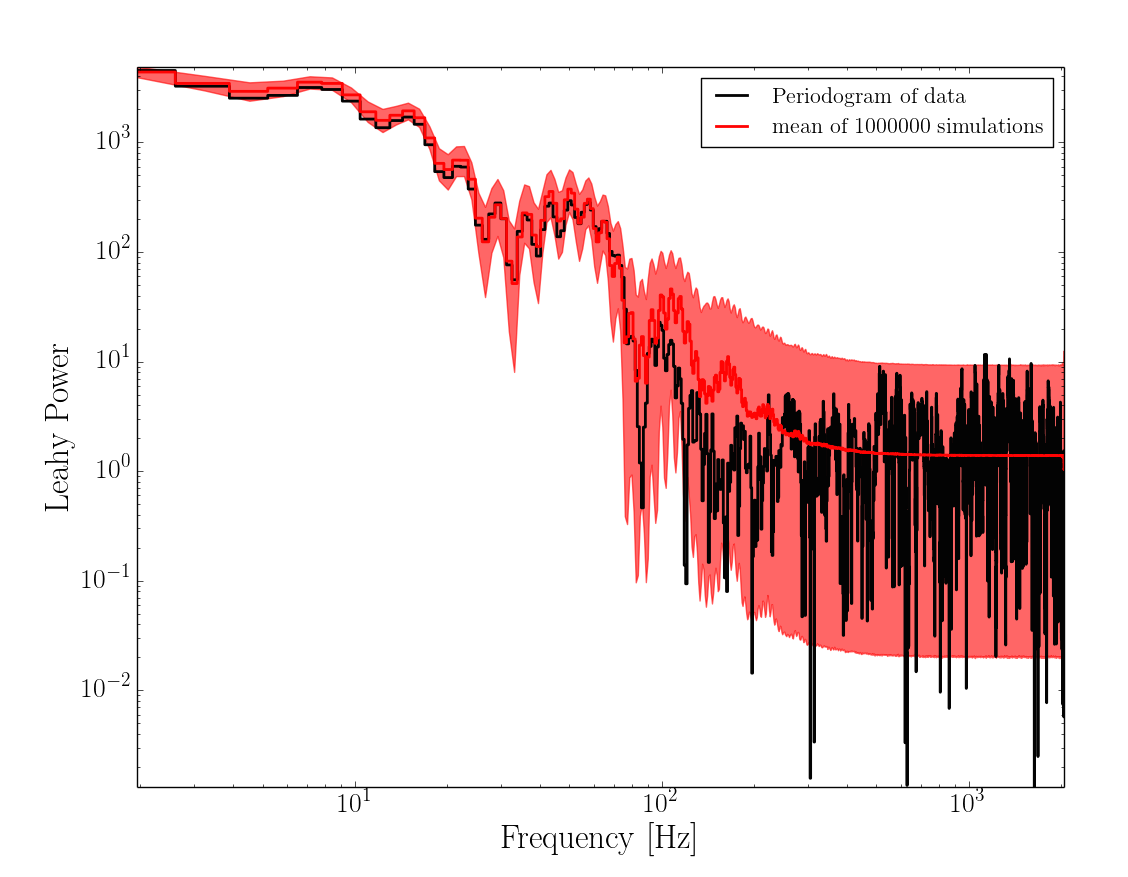
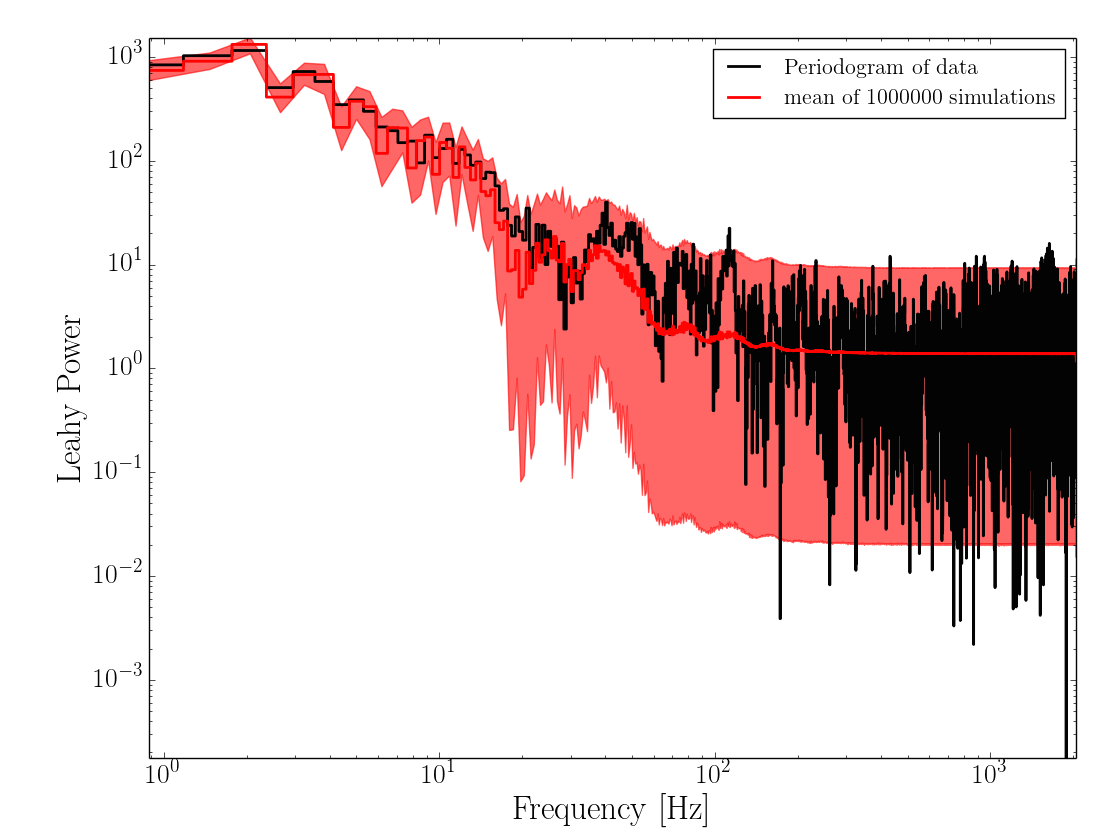
New version of plot with periodograms out of lightcurve fits

Changed region(s): [[0.0305, 0.031, 0.9749, 0.9905]]

diff --git a/sgr_burst_paper.tex b/sgr_burst_paper.tex
@@ -70,12 +70,12 @@ Following \citet{zhang1995} and \citet{jahoda2006}, we correct the periodograms 
 \label{sec:analysis}
 
 Magnetar bursts, by their very nature, have a well-defined start and end. From this immediately follows that they are non-stationary processes and, as such, require special care when performing Fourier analysis - a decomposition into stationary sine functions - on their light curves. Note that stationarity does not imply a constant light curve: it merely implies that the variance in the light curve over any given time interval must be the same as over any other interval. 
-Here, we use the Bayesian periodogram methods described in \citet{huppenkothen13} to deal with the effects of non-stationarity at low frequencies. In short, we compute the periodogram of a light curve with a high time resolution, here $dt = 0.5/2048 = 2.44 \times 10^{-4} \, \mathrm{s}$, which allows us to search up to a Nyquist frequency of $\nu_{\mathrm{Nyquist}} = 2048 \, \mathrm{Hz}$. For light curves that obey stationarity over the time scales of interest, standard Fourier methodology applies, and the statistical distributions of the resulting power spectra are well known. The bursty nature of our light curves introduces high variance at long time scales, correspondingly the periodogram shows high power at low frequencies. We model this power with an empirical function; experience has shown that simple or broken power laws can model a large range of burst phenomena. Consequently, we perform two tasks: (1) a model selection task, to ascertain whether the periodogram may be represented by a simple power law, or requires a more complex model; (2) a QPO search task, where we compare the maximum powers of a large number of simulations to the maximum power after dividing out the best-fit broadband model in the observed periodogram. For the model selection task, we fit the periodogram with both a simple and a broken power law and compute the likelihood ratio. We then sample from the posterior distribution of the simpler model via Markov Chain Monte Carlo, and simulate periodograms from draws of that posterior distribution. These periodograms are again fit with both models, such that we can build a distribution of likelihood ratios for realisations of the simpler model. This allows us to compute a posterior p-value, such that we can accept or reject the simple model. Here, we use a fairly conservative strategy and set the rejection threshold at $p = 0.05$, such that we prefer to over-fit the broadband noise, rather than mis-attribute noise components as a QPO.
+Here, we use the Bayesian periodogram methods described in \citet{huppenkothen2013} to deal with the effects of non-stationarity at low frequencies. In short, we compute the periodogram of a light curve with a high time resolution, here $dt = 0.5/2048 = 2.44 \times 10^{-4} \, \mathrm{s}$, which allows us to search up to a Nyquist frequency of $\nu_{\mathrm{Nyquist}} = 2048 \, \mathrm{Hz}$. For light curves that obey stationarity over the time scales of interest, standard Fourier methodology applies, and the statistical distributions of the resulting power spectra are well known. The bursty nature of our light curves introduces high variance at long time scales, correspondingly the periodogram shows high power at low frequencies. We model this power with an empirical function; experience has shown that simple or broken power laws can model a large range of burst phenomena. Consequently, we perform two tasks: (1) a model selection task, to ascertain whether the periodogram may be represented by a simple power law, or requires a more complex model; (2) a QPO search task, where we compare the maximum powers of a large number of simulations to the maximum power after dividing out the best-fit broadband model in the observed periodogram. For the model selection task, we fit the periodogram with both a simple and a broken power law and compute the likelihood ratio. We then sample from the posterior distribution of the simpler model via Markov Chain Monte Carlo, and simulate periodograms from draws of that posterior distribution. These periodograms are again fit with both models, such that we can build a distribution of likelihood ratios for realisations of the simpler model. This allows us to compute a posterior p-value, such that we can accept or reject the simple model. Here, we use a fairly conservative strategy and set the rejection threshold at $p = 0.05$, such that we prefer to over-fit the broadband noise, rather than mis-attribute noise components as a QPO.
 In the second step, we draw from the posterior distribution of the model chosen in the model selection step, again via MCMC, and create a large number of simulated periodograms from these draws. We fit each periodogram with the preferred model, and find the highest data/model outlier. We can then compare the distribution of data/model outliers as derived from the simulations of broadband noise only with the highest data/model outlier in the observed periodogram. If the observed value is very unlikely given p-value derived from these simulations, one may say with relative confidence that we have detected a QPO at the frequency of the highest data/model outlier in the data. Note that while this approach automatically corrects for the fact that we have searched over a broad range of frequencies, we still need to correct for the fact that we also have searched over a large number of bursts: the more frequencies or bursts one searches, the likelier it becomes to see an outlier purely by chance. 
 
-It is important to note that the analysis presented above makes a strong assumption about the data: our choice of a $\chi^2$-distributed likelihood around the model power spectrum implies that the periodogram is the result of a pure, stationary noise process. This is not strictly true, but as shown in \citet{huppenkothen13}, it is a conservative assumption that holds for all but the lowest frequencies in the periodogram. At high enough frequencies, where the shape of the periodogram is effectively hidden by noise, the method becomes equivalent to the standard tests against a $\chi^2$ distribution with two degrees of freedom for an unbind periodogram, as described for example in \citet{vanderklis1989}.
+It is important to note that the analysis presented above makes a strong assumption about the data: our choice of a $\chi^2$-distributed likelihood around the model power spectrum implies that the periodogram is the result of a pure, stationary noise process. This is not strictly true, but as shown in \citet{huppenkothen2013}, it is a conservative assumption that holds for all but the lowest frequencies in the periodogram. At high enough frequencies, where the shape of the periodogram is effectively hidden by noise, the method becomes equivalent to the standard tests against a $\chi^2$ distribution with two degrees of freedom for an unbind periodogram, as described for example in \citet{vanderklis1989}.
 
-For details on the analysis procedure, including extensive simulations on simulated bursts, as well as the limitations of the method, see \citet{huppenkothen13} and \citet{vaughan2010}.
+For details on the analysis procedure, including extensive simulations on simulated bursts, as well as the limitations of the method, see \citet{huppenkothen2013} and \citet{vaughan2010}.
 
 \subsection{Individual Burst Search}
 \label{sec:psd_individual}
@@ -105,7 +105,7 @@ an example). This implies that the comparison we are making between the data and
 It is not immediately clear what causes these irregularities in the periodogram at high frequencies: on the one hand, this is the frequency range where the spectrum should be dominated entirely by Poisson statistics,
 as was indeed the case for the bursts from SGR J1550-5418 observed with Fermi/GBM. On the other hand, these frequencies are still too low for dead time effects, described in more detail in \ref{sec:data}, to have an
 appreciable effect on the shape of the periodogram. It thus seems that there must be an intrinsic property of the bursts that leads to the observed deviations from the expected shape. This possibility will be further
-explored in Section \ref{sec:weakbursts}; an alternative QPO search on the bursts in question will be described in more detail in Section \ref{sec:dnest}
+explored in Section \ref{sec:weakbursts}; an alternative QPO search on the bursts in question will be described in more detail in Section \ref{sec:dnest}.
 
 
 %%% NEED SOME TEXT HERE
@@ -124,7 +124,7 @@ explored in Section \ref{sec:weakbursts}; an alternative QPO search on the burst
 \subsection{Averaged Periodograms}
 \label{sec:psd_average}
 We construct averaged periodograms from bursts that are close together in time, in order to test the hypothesis that a QPO could be persist for hundreds of seconds, or else be re-excited in consecutive bursts at a comparable frequency. Additionally, averaging periodograms from different bursts can drastically increase the signal-to-noise ratio, if a signal persists across bursts. We compute waiting times between burst start times, i.e. the time interval between consecutive bursts. Note that for bursts separated by an unobserved time period, this time interval is very long. All bursts with a waiting times of less than $500$ seconds between consecutive bursts are then grouped together in clusters. This number is chosen such that we do not create stretches that cross observations, while also creating clusters of bursts large enough to allow for averaging. Within each cluster, we pick the burst with the largest burst $T_{90}$ duration, and construct light curves for all bursts in the cluster with that duration. This allows us to create periodograms with the same number of frequencies, which are consequently easier to average. For the following analysis, we choose all clusters with at least 30 bursts for SGR 1900+14, and all clusters with at least 20 bursts for SGR 1806-20, to account for the intrinsically lower number of bursts in the latter sample, while preserving a high signal-to-noise ratio for both.
-For SGR 1900+14, we create 15 clusters in this way, containing between $6$ and $69$ bursts each. These clusters have durations (from the first burst in the cluster to the last) between $775$ and $3257$ seconds, longer than the instrument-imposed maximum duration of a cluster of $330 \, \mathrm{s}$ for our previous analysis of {\it Fermi} Gamma-Ray Burst Monitor (GBM) data of SGR J1550-5418 \citep{huppenkothen14}. Eight of these clusters have more than $30$ bursts, which we subsequently combine to produce 8 periodograms, with the smallest sample averaged over $38$ bursts, the largest averaged over $75$ bursts.
+For SGR 1900+14, we create 15 clusters in this way, containing between $6$ and $69$ bursts each. These clusters have durations (from the first burst in the cluster to the last) between $775$ and $3257$ seconds, longer than the instrument-imposed maximum duration of a cluster of $330 \, \mathrm{s}$ for our previous analysis of {\it Fermi} Gamma-Ray Burst Monitor (GBM) data of SGR J1550-5418 \citep{huppenkothen2014}. Eight of these clusters have more than $30$ bursts, which we subsequently combine to produce 8 periodograms, with the smallest sample averaged over $38$ bursts, the largest averaged over $75$ bursts.
 For SGR 1806-20, we create 19 clusters with between 1 and 44 bursts and a total duration in each cluster $17$ and $3242$ seconds. We extract five clusters with between $20$ and $44$ bursts each. Note that the lower number of bursts averaged for SGR 1806-20 than SGR 1800+14 leads to a lower sensitivity for QPO detections in the former data set, as the inclusion of more bursts results in a higher signal-to-noise ratio in the final averaged periodogram.
 
 \begin{figure}[htbp]
@@ -210,6 +210,14 @@ We produce a large number of simulated light curves for different values of the 
 For flat light curves, the resulting distributions are close to a $\chi^2$ distribution with two degrees of freedom, and remain this way even for low photon counts. The difference in $99\%$ quantiles between the simulated powers and the expected distribution range from $-0.7$ to $+0.25$, with the difference asymptotically approaching $0$ when averaging neighbouring frequency bins.
 This indicates that a few photons alone are not enough to make the resulting periodogram deviate significantly from the expected distribution.
 
+\begin{figure*}[htbp]
+\begin{center}
+\includegraphics[width=18cm]{weak_burst_sims.png}
+\caption{The deviations of the distribution of powers $>1000 \hz$ in simulated bursts in dependence of frequency binning, burst rise time, and background count rate. Here, we plot the difference in the $99\%$ quantile from distributions of simulated powers derived from 10000 simulated burst periodograms for each parameter set, versus the $99\%$ quantile of the theoretically expected distribution. We show the difference in quantiles for unbinned and binned powers, for various values of the burst rise time and background count rate. This difference provides an estimate of how likely we are to over- or under-estimate the significance of a given power when comparing to the theoretically expected distribution: for positive differences, the observed maximum power in a periodogram is derived from a distribution effectively shifted to the right of the theoretically expected distribution: we are likely to overestimate the significance of that maximum power. Conversely, a negative difference implies a shift of the distribution of powers to the left compared to the theoretically expected distribution, thus we are more likely to underestimate the significance of the observed maximum power in a given burst periodogram. The deviation of the $99\%$ quantile from the theoretical expectation depends strongly on both the rise time, which effectively sets the smallest time scales in the periodogram, as well as the background count rate. Note that we varied the amplitude of the burst as well, but omit a comparison between amplitudes here: a higher amplitude exacerbates the effect for bursts with a low background and a sharp rise.}
+\label{fig:weak_bursts}
+\end{center}
+\end{figure*}
+
 \subsection{Simulated Burst Light Curves}
 \label{sec:weakburstsims}
 Since a low number of photons alone does not explain the observed deviations from the theoretically expected distribution, we instead simulate simple, single-peaked bursts similar to those observed from SGR 1806-20 and SGR 1900+14 with RXTE.
@@ -226,14 +234,6 @@ For our exploratory analysis here, we restrict ourselves to testing the effect o
 We vary the rise time from $0.001 \, \mathrm{s}$ to $0.03 \, \mathrm{s}$, the background counts from $0.001$ counts per bin (corresponding to a background count rate of $\approx 5 \, \mathrm{counts}\, \,mathrm{s}^{-1}$) to $10$ counts per bin (corresponding to a count rate of $\approx 5 \times 10^{4}\, \mathrm{counts}\, \,mathrm{s}^{-1}$). The background for the PCA detector onboard of RXTE is approximately $20\, \mathrm{counts}\; \mathrm{s}^{-1}$ per detector, thus well within the range of simulated values.
 
 
-\begin{figure*}[htbp]
-\begin{center}
-\includegraphics[width=18cm]{weak_burst_sims.png}
-\caption{The deviations of the distribution of powers $>1000 \hz$ in simulated bursts in dependence of frequency binning, burst rise time, and background count rate. Here, we plot the difference in the $99\%$ quantile from distributions of simulated powers derived from 10000 simulated burst periodograms for each parameter set, versus the $99\%$ quantile of the theoretically expected distribution. We show the difference in quantiles for unbinned and binned powers, for various values of the burst rise time and background count rate. This difference provides an estimate of how likely we are to over- or under-estimate the significance of a given power when comparing to the theoretically expected distribution: for positive differences, the observed maximum power in a periodogram is derived from a distribution effectively shifted to the right of the theoretically expected distribution: we are likely to overestimate the significance of that maximum power. Conversely, a negative difference implies a shift of the distribution of powers to the left compared to the theoretically expected distribution, thus we are more likely to underestimate the significance of the observed maximum power in a given burst periodogram. The deviation of the $99\%$ quantile from the theoretical expectation depends strongly on both the rise time, which effectively sets the smallest time scales in the periodogram, as well as the background count rate. Note that we varied the amplitude of the burst as well, but omit a comparison between amplitudes here: a higher amplitude exacerbates the effect for bursts with a low background and a sharp rise.}
-\label{fig:weak_bursts}
-\end{center}
-\end{figure*}
-
 
 We find that the deviations from the theoretically expected statistical distribution of powers in many burst periodograms arises from a combination of factors: it seems like the low background conspires with sharp rises to create visible features even at high frequencies. This is unsurprising: the sharper the rise, the shorter are the time scales that the Fourier transform decomposes. Correspondingly, the strongest effects are observed for a short rise time, $t_{\mathrm{rise}} = 10^{-3}\,\mathrm{s}$. In a data stream with significant background photon counts, the resulting deterministic structures in the power spectrum are hidden underneath the noise. For RXTE data, this is not true: even above $1000\hz$, the periodogram is dominated by structures that arise from the burst itself, even when that burst is a simple, single-peaked structure without any QPO-like features. The effect is strongest for bursts with the weakest background and the sharpest rise times. Our simulations indicate that an increase in amplitude exacerbates the effect: a stronger burst, for the same rise time, automatically implies a sharper rise, thus increasing the power at high frequencies. The effect shifts the distribution of powers almost always to a higher power, and comparisons of observed powers with the theoretically expected statistical distribution will be biased towards overestimating the significance of the observed signal. Hence, we are more likely to make false positive errors and claim significance for a feature that is not, in fact, a QPO.
 
@@ -241,9 +241,9 @@ We note that our QPO search of bursts from magnetar SGR J1550-5418 observed with
 
 
 \section{Burst Periodograms from Models of the Burst Light Curve}
-\citep{sec:dnest}
+\label{sec:dnest}
 
-The results of Section \ref{sec:weakburstsims} make it clear that for short transient events observed with RXTE, the main assumption of the method used in \citet{huppenkothen13} no longer holds: even at high frequencies, the powers in the periodogram do not follow a $\chi^2$ distribution with two degrees of freedom around the underlying power spectral model. The simulations also show that we are far more likely to overestimate the significance of a signal due to a sharp rise and a low background than underestimate the significance. This is a problem that cannot easily be solved in the Fourier domain. Instead, the most straightforward way would be to model the burst light curves directly, and compare the periodogram of the observed data to the periodograms of realisations of the model. This, however, presents us with a new set of problems: there is no simple, straightforward way to model magnetar burst: indeed, the variety of shapes in the temporal domain originally prompted us in \citet{huppenkothen13} to consider power spectral models instead. However, in order to understand whether any of the candidate detections in Section \ref{sec:psd_individual} are real, simulations of light curves are essential. 
+The results of Section \ref{sec:weakburstsims} make it clear that for short transient events observed with RXTE, the main assumption of the method used in \citet{huppenkothen2013} no longer holds: even at high frequencies, the powers in the periodogram do not follow a $\chi^2$ distribution with two degrees of freedom around the underlying power spectral model. The simulations also show that we are far more likely to overestimate the significance of a signal due to a sharp rise and a low background than underestimate the significance. This is a problem that cannot easily be solved in the Fourier domain. Instead, the most straightforward way would be to model the burst light curves directly, and compare the periodogram of the observed data to the periodograms of realisations of the model. This, however, presents us with a new set of problems: there is no simple, straightforward way to model magnetar burst: indeed, the variety of shapes in the temporal domain originally prompted us in \citet{huppenkothen2013} to consider power spectral models instead. However, in order to understand whether any of the candidate detections in Section \ref{sec:psd_individual} are real, simulations of light curves are essential. 
 
 \subsection{Light Curve Simulations of Candidate Detections}
 
@@ -259,7 +259,7 @@ In order to simulate the light curves of bursts with candidate detections, we re
 \end{figure}
 
 
-We model the light curve using the model defined in Equation \ref{eqn:spike model} as a superposition of individual spikes. Using a Poisson likelihood and hierarchical priors on the parameters, we construct a Bayesian model of the light curve, where the number of components of the type described in Equation \ref{eqn:spikemodel} is not known {\it a priori}. We then use diffusive nested sampling \citep{brewer2011} to sample the posterior distribution of parameters, including the number of components. From draws of this distribution, we simulate light curves using the appropriate Poisson statistics to account for the effects of photon counting, and then create periodograms out of these light curves. These periodograms can then be directly compared to the periodogram of the observed data, such that we can create posterior p-values in much the same way as we have done for the periodogram simulations in \citep{huppenkothen13}. For each candidate burst, we create $10^6$ artificial light curves and consequently $10^6$ simulated periodograms. We fit each observed periodogram and simulated periodogram with a broken power law, and extract the maximum data/model outlier from both unbinned and binned periodograms. We restrict ourselves to the broken power law model, because the full model selection procedure would be too computationally expensive to run on each simulated periodogram. Choosing the more complex model in his case ensures that we are conservative: we are more likely to overfit the spectrum, and thus overfit a potential low-frequency, broad QPO feature, than under fit a broadband noise feature which will subsequently be falsely detected as a QPO. Since our initial search has not unearthed any low-frequency features that could easily be mistaken for QPOs by the broadband noise model, this is a safe choice.
+We model the light curve using the model defined in Equation \ref{eqn:spike model} as a superposition of individual spikes. Using a Poisson likelihood and hierarchical priors on the parameters, we construct a Bayesian model of the light curve, where the number of components of the type described in Equation \ref{eqn:spikemodel} is not known {\it a priori}. We then use diffusive nested sampling \citep{brewer2011} to sample the posterior distribution of parameters, including the number of components. From draws of this distribution, we simulate light curves using the appropriate Poisson statistics to account for the effects of photon counting, and then create periodograms out of these light curves. These periodograms can then be directly compared to the periodogram of the observed data, such that we can create posterior p-values in much the same way as we have done for the periodogram simulations in \citep{huppenkothen2013}. For each candidate burst, we create $10^6$ artificial light curves and consequently $10^6$ simulated periodograms. We fit each observed periodogram and simulated periodogram with a broken power law, and extract the maximum data/model outlier from both unbinned and binned periodograms. We restrict ourselves to the broken power law model, because the full model selection procedure would be too computationally expensive to run on each simulated periodogram. Choosing the more complex model in his case ensures that we are conservative: we are more likely to overfit the spectrum, and thus overfit a potential low-frequency, broad QPO feature, than under fit a broadband noise feature which will subsequently be falsely detected as a QPO. Since our initial search has not unearthed any low-frequency features that could easily be mistaken for QPOs by the broadband noise model, this is a safe choice.
 
 An example periodogram is shown in Figure \ref{fig:burst_lcmodel_ps}. We show both the periodogram of the burst itself, as well as contours of the $1\%$ and $99\%$ quantiles of the $10^6$ simulated periodograms. Especially at low frequencies, the deviations from the expected distributions are clearly visible: the shape of the periodogram at these frequencies is complex, with many features that could be mistaken for QPOs, and the distributions are very narrow, indicating a deterministic process dominates this part of the spectrum. At high frequencies, the spectrum evens out on average, but individual realisations of the burst may still have - and in fact do have - significant deviations from the expected distributions.
 
@@ -268,6 +268,11 @@ An example periodogram is shown in Figure \ref{fig:burst_lcmodel_ps}. We show bo
 
 \section{Discussion}
 \label{sec:discussion}
+
+NEED TO INCLUDE:
+- Discussion Fermi/GBM versus RXTE ----> Why we need Fermi/GBM
+- improvement of light curve methods over standard assumption of red noise, but problem with detecting low-frequency signals in this method
+- contrast with El-Mezeini results again
 
 \section{Conclusions}
 
